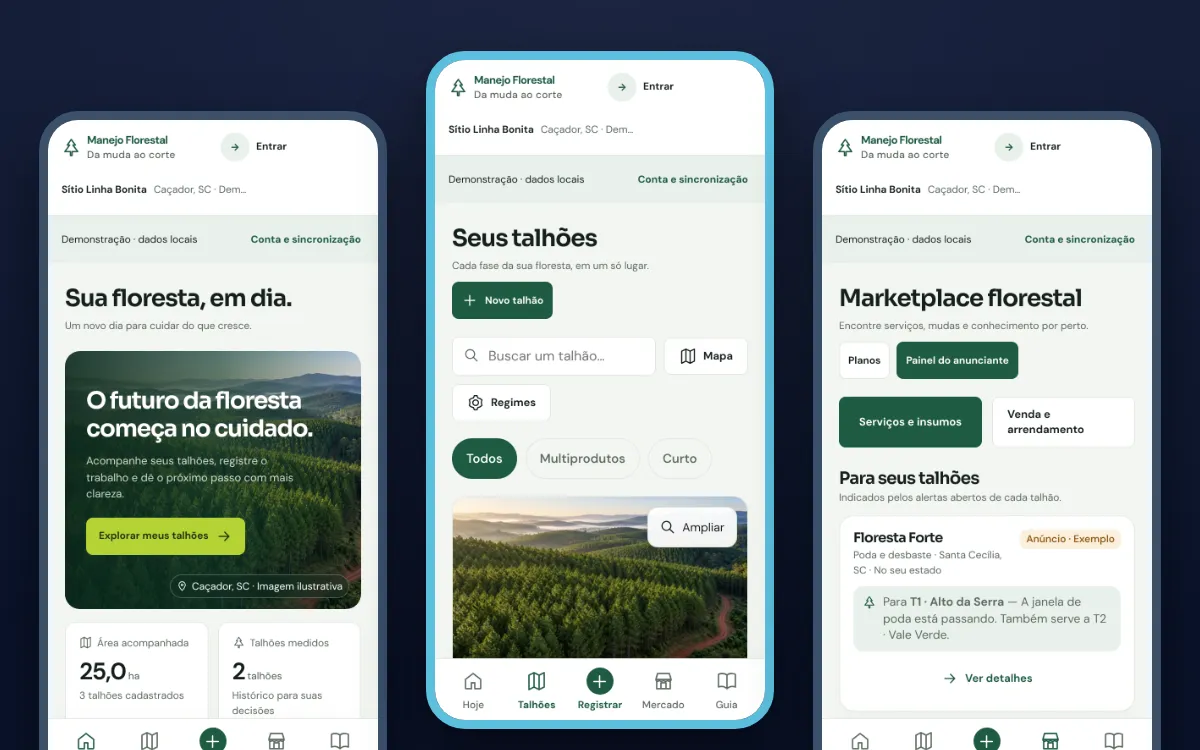
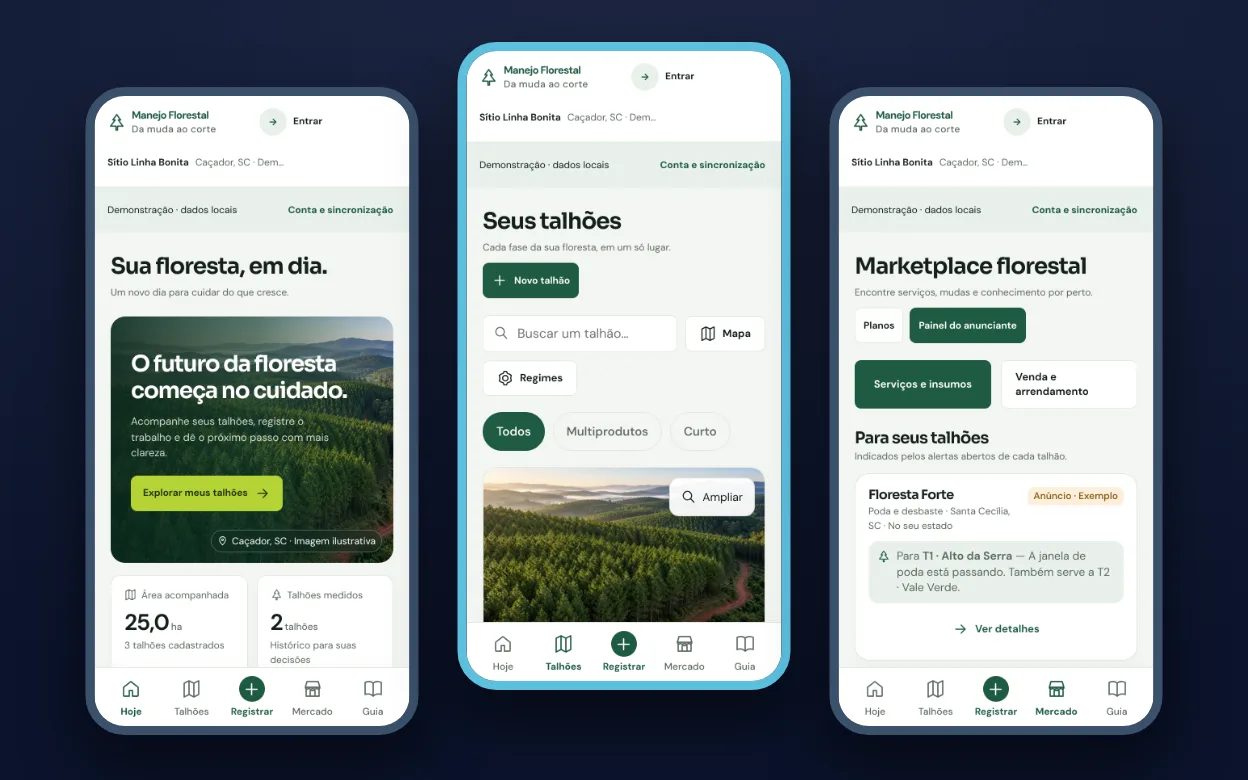
Card Manejo: imagem com os três celulares inteiros
Claude-Session: https://claude.ai/code/session_01DMML7wgtXaFkAoeH8fBKTT

diff --git a/index.html b/index.html
@@ -577,7 +577,7 @@ footer .sp{margin-left:auto}
 
     <div class="projects collapsed" id="projects">
       <article class="proj glass" data-cat="soft">
-        <figure class="proj-shot"><button type="button" class="zoom" aria-label="Ampliar telas do app"><img src="img/projetos/manejo.webp" width="1200" height="750" loading="lazy" decoding="async" alt="Telas do app Manejo Florestal: início, talhões e marketplace"></button></figure>
+        <figure class="proj-shot"><button type="button" class="zoom" aria-label="Ampliar telas do app"><img src="img/projetos/manejo.webp?v=2" width="1248" height="780" loading="lazy" decoding="async" alt="Telas do app Manejo Florestal: início, talhões e marketplace"></button></figure>
         <div class="proj-top"><span class="av">MF</span><div><h3>Manejo Florestal</h3><p>Aplicativo · produtores de pinus</p></div><span class="badge ok">● no ar</span></div>
         <span class="tagline">Projeto 01 · app próprio</span>
         <p class="quote">Talhões no mapa, medições offline e alertas de poda e desbaste, com marketplace de viveiros.</p>
